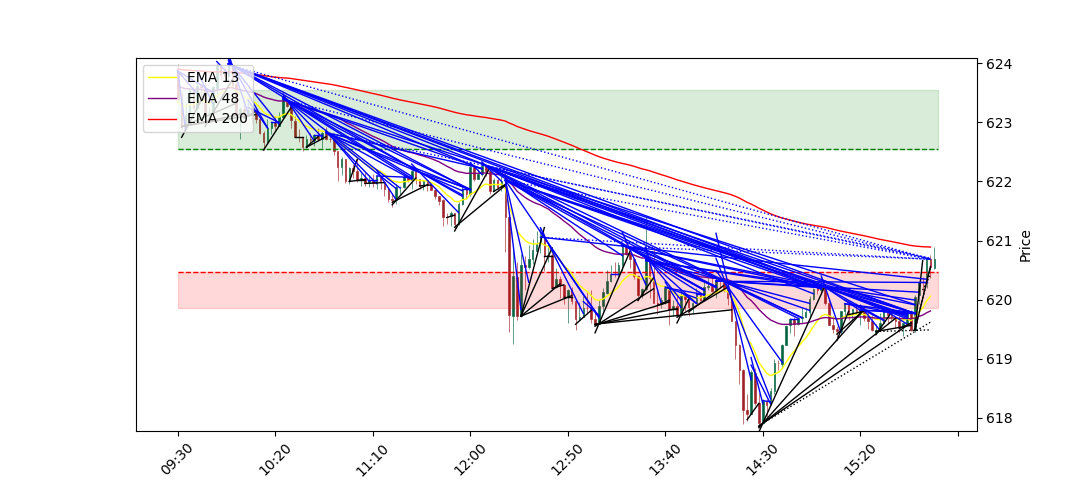
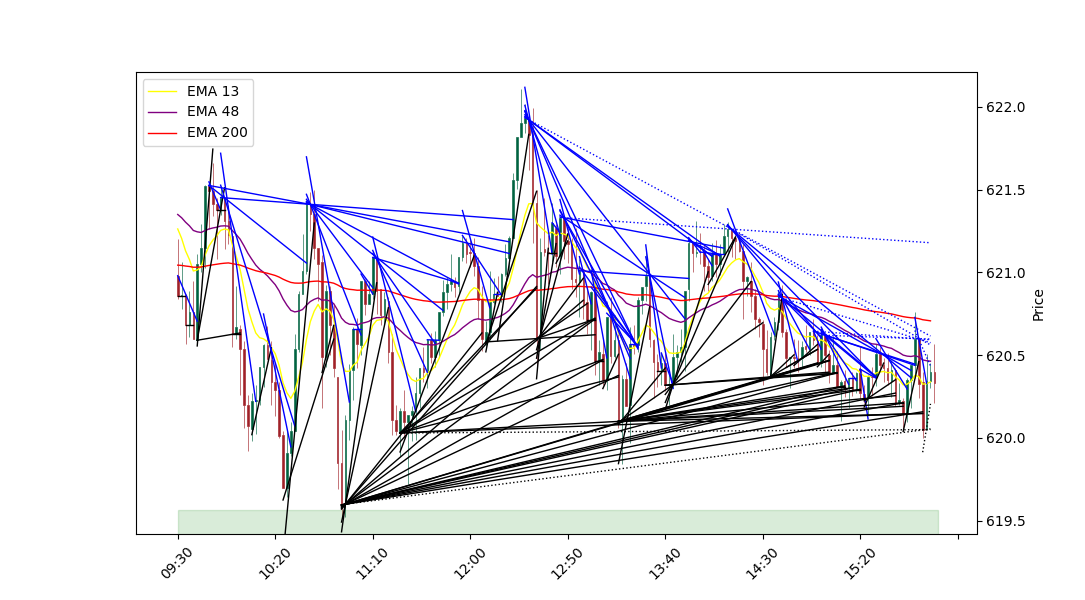
Week 63 Day 2 report
- `ERROR.txt` purpose is to save live terminal errors For later examination/Solving.

diff --git a/README.md b/README.md
@@ -18,6 +18,16 @@ This system analyzes the market using:
 
 ---
 
+### Most Recent **2 Minute Chart:**
+
+![2 Minute Chart](storage/SPY_2-min_chart.png)
+
+### Most Recent **15 Minute Chart:**
+
+![2 Minute Chart](storage/SPY_15-min_chart.png)
+
+---
+
 ## Key Concepts
 
 ✅ **Dynamic Zones:**  
